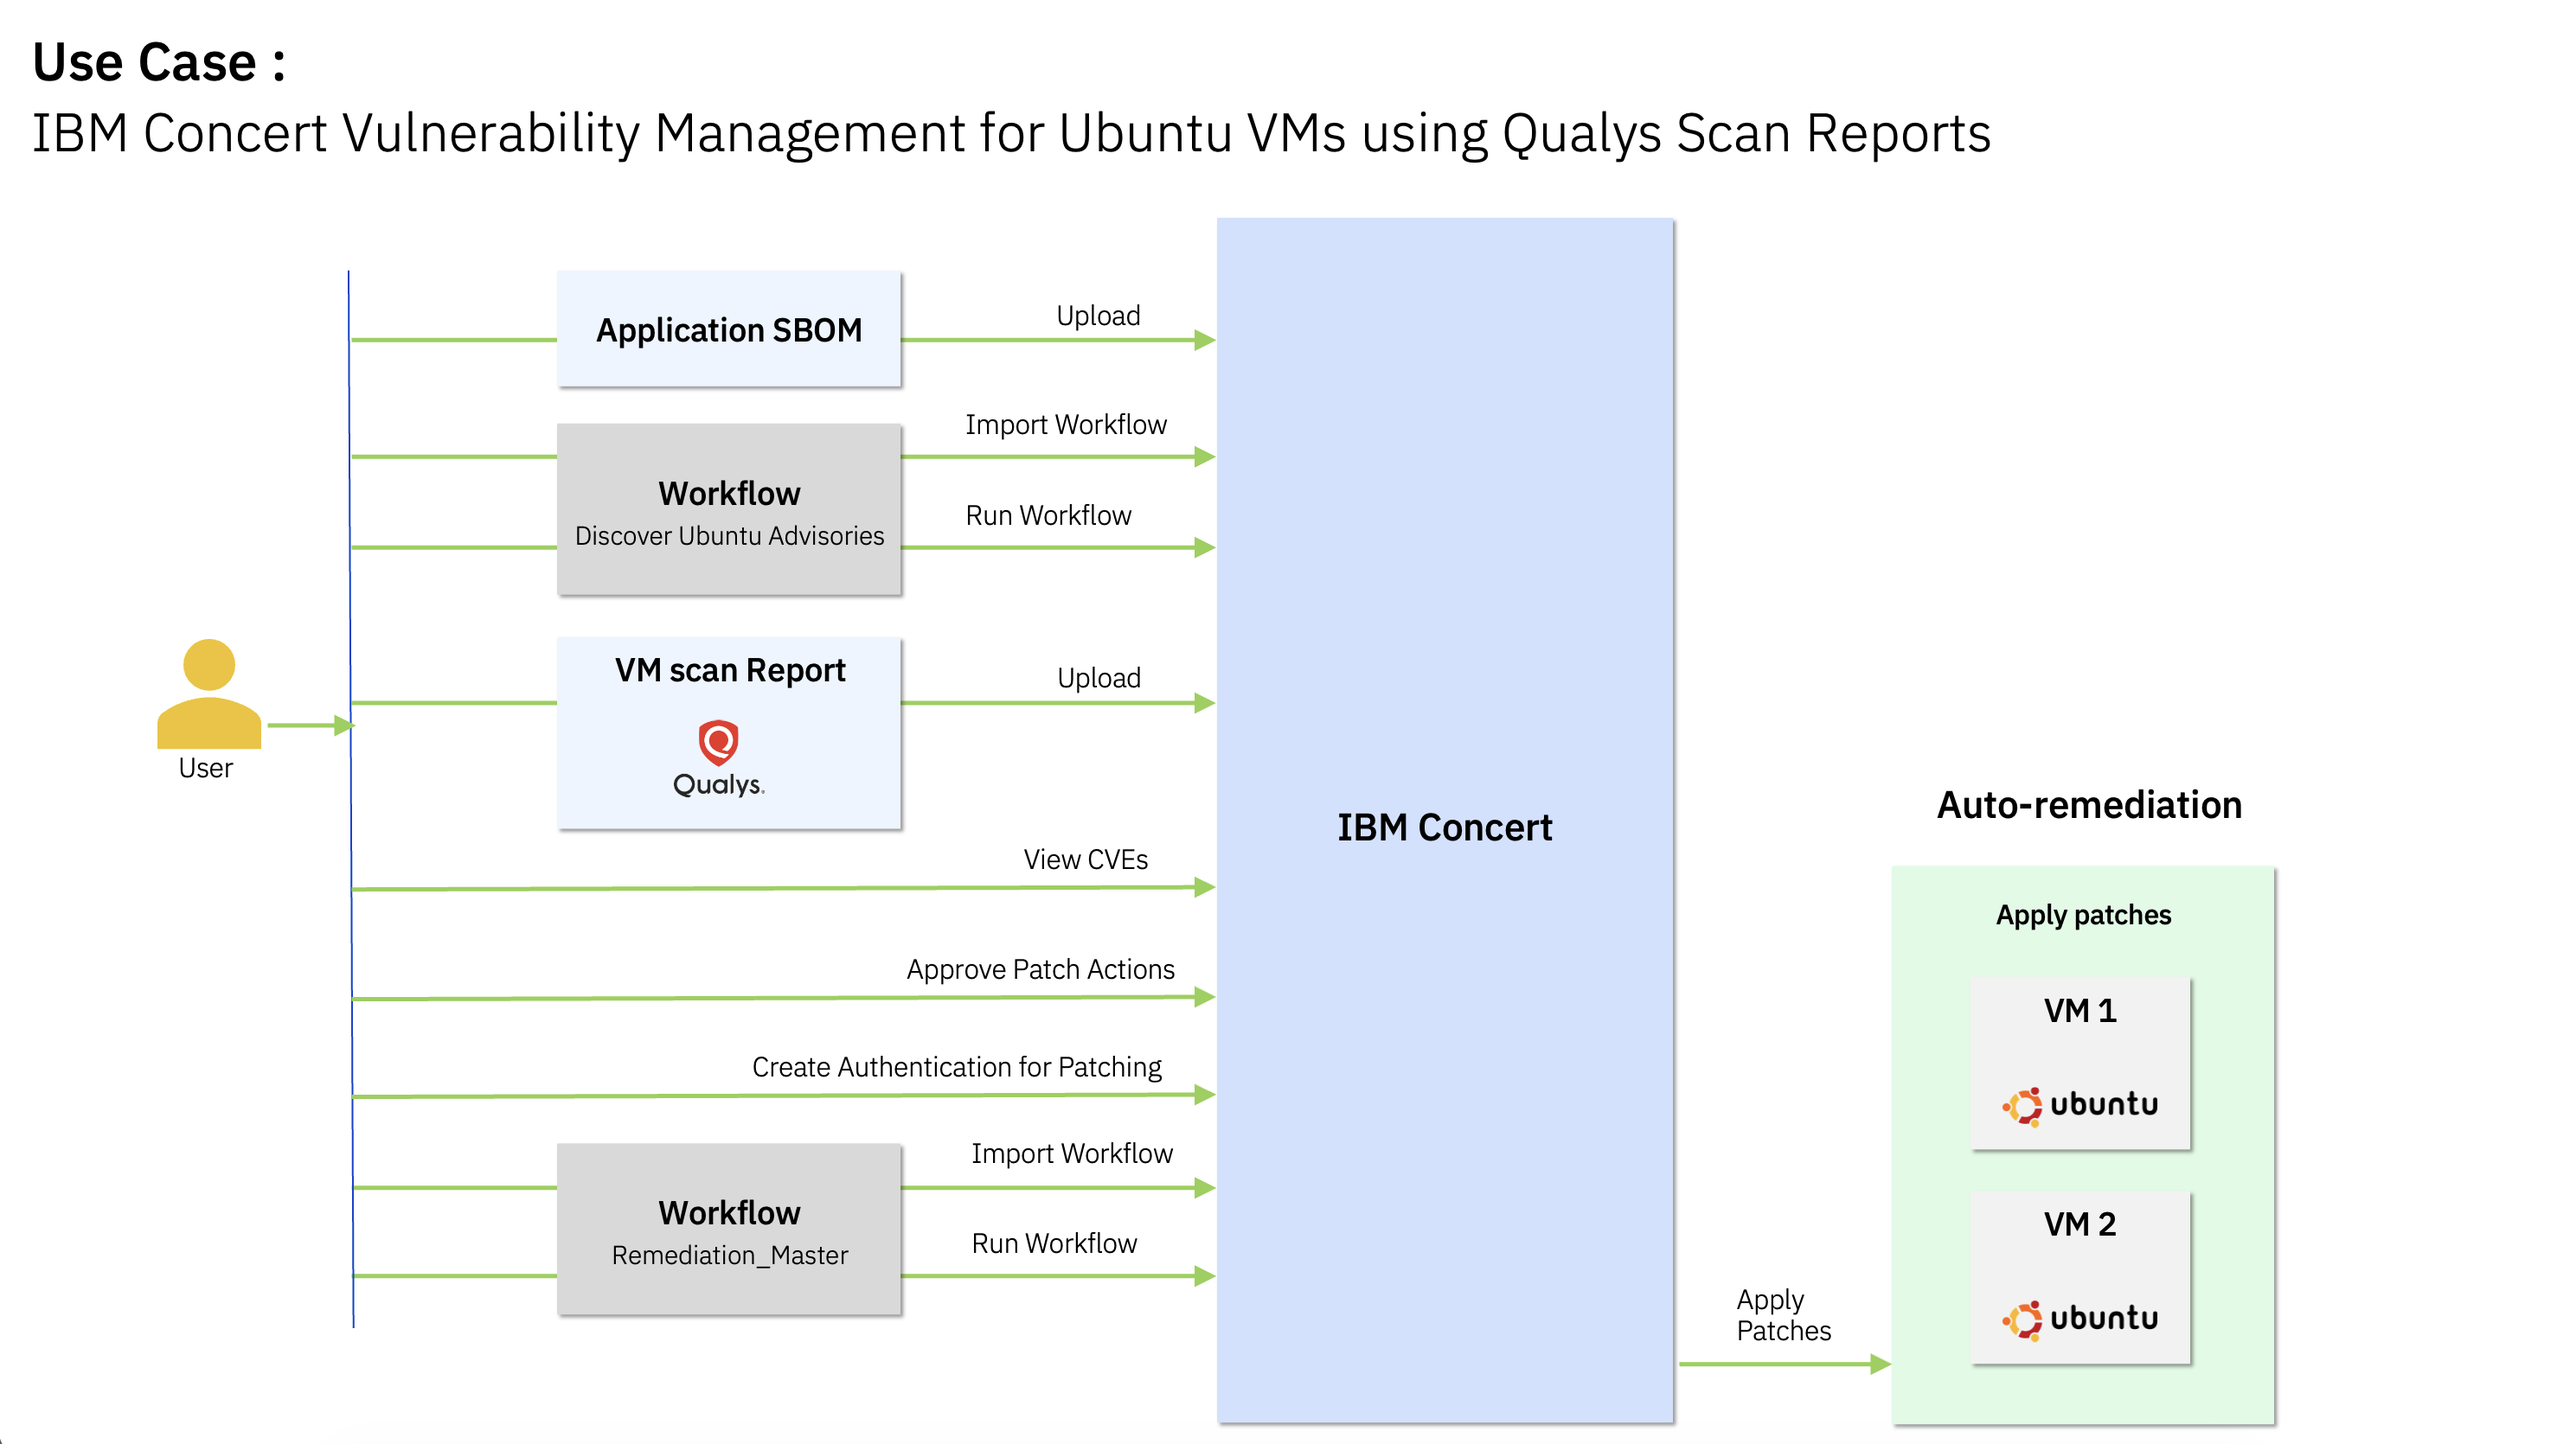
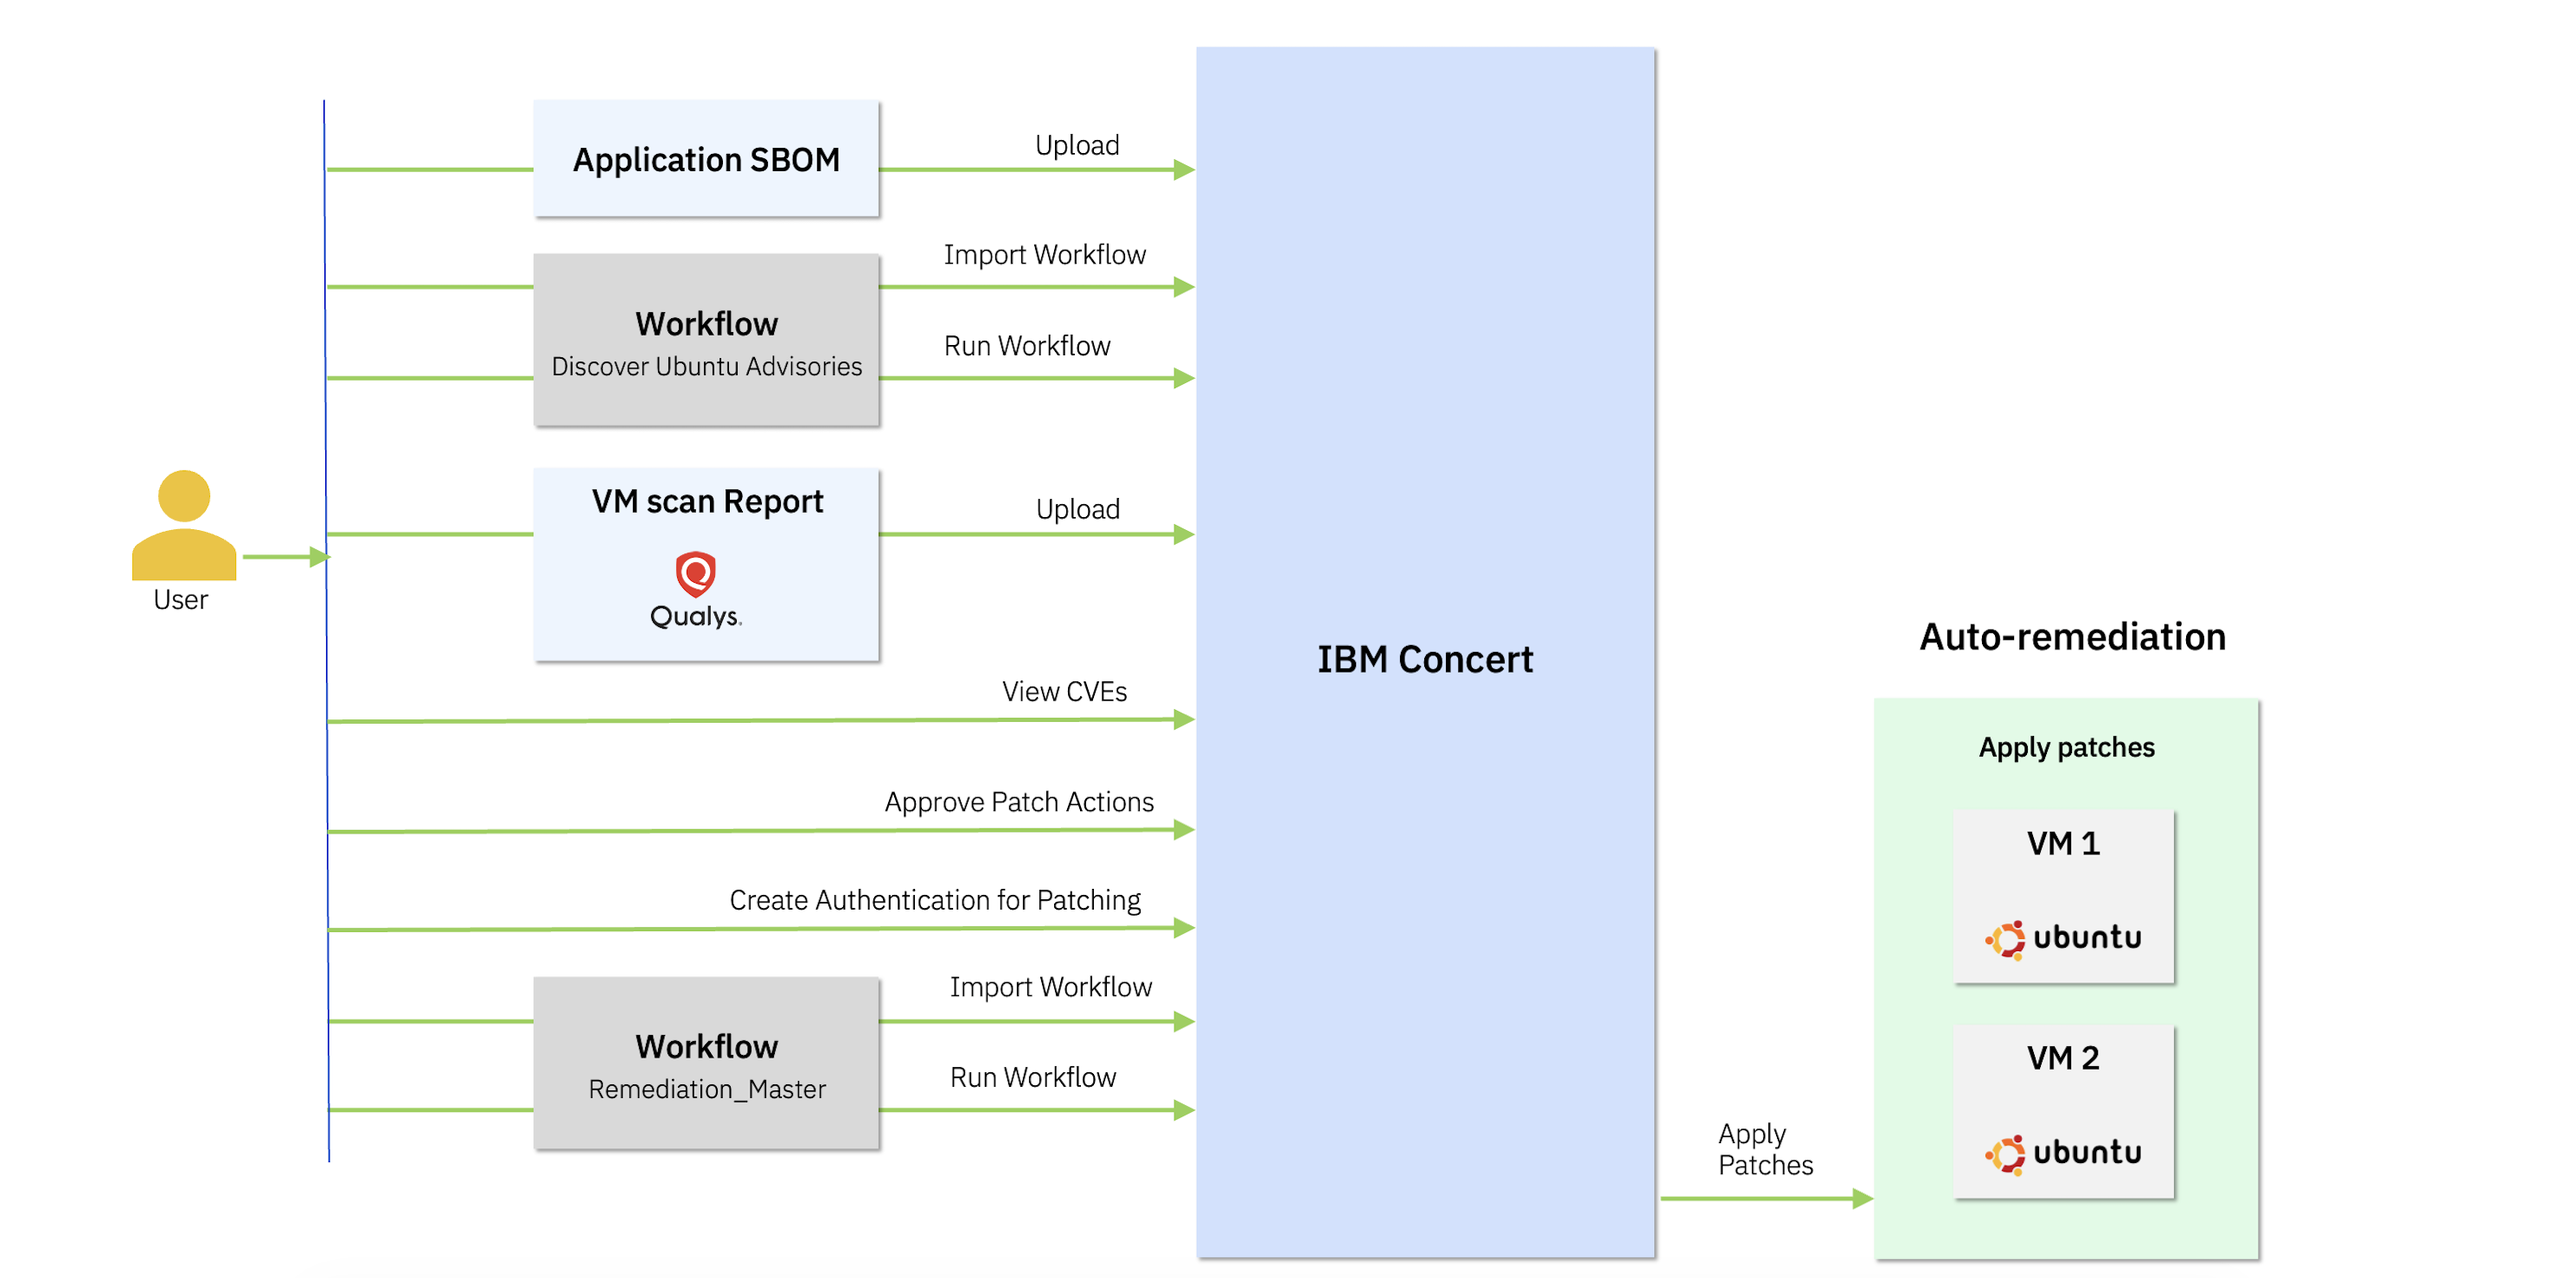
update

Changed region(s): [[0.0, 0.0311, 0.7797, 0.9959], [0.6237, 0.4668, 0.9044, 0.9959], [0.0312, 0.3735, 0.2183, 0.5602]]

diff --git a/20-Vulnerability-Management-for-Ubuntu-VMs-using-Qualys-Scan-Reports/readme.md b/20-Vulnerability-Management-for-Ubuntu-VMs-using-Qualys-Scan-Reports/readme.md
@@ -4,22 +4,6 @@ This document provides step-by-step guidance on how IBM Concert simplifies and a
 
 IBM Concert enables the import of vulnerability scan reports from various tools. It processes these reports to identify vulnerabilities and generates the necessary patch advisories for the affected VMs. These advisories are then executed through Concert workflows, which automatically apply the required patches to Ubuntu and other supported operating systems.
 
-## UseCase
-
-Here is the use case of this demo.
-
-We have a Qualys vulnerability scan report for two Ubuntu virtual machines.
-
-In addition, we have an Application S-bom that defines the structure of the application and its deployment environment.
-
-Let us see, how IBM Concert simplifies and automates OS vulnerability management and patch remediation for two Ubuntu VMs using  Qualys scan report
-
-Will do the following.
-
-- The Application SBOM and scan report will be imported into Concert.
-- Concert will analyze the data and generate patch actions for the detected vulnerabilities.
-- After user approval, Concert workflows will automatically apply the required patches to the two VMs.
-
 ### Use Case
 This section outlines the demo use case.
 In this scenario:
